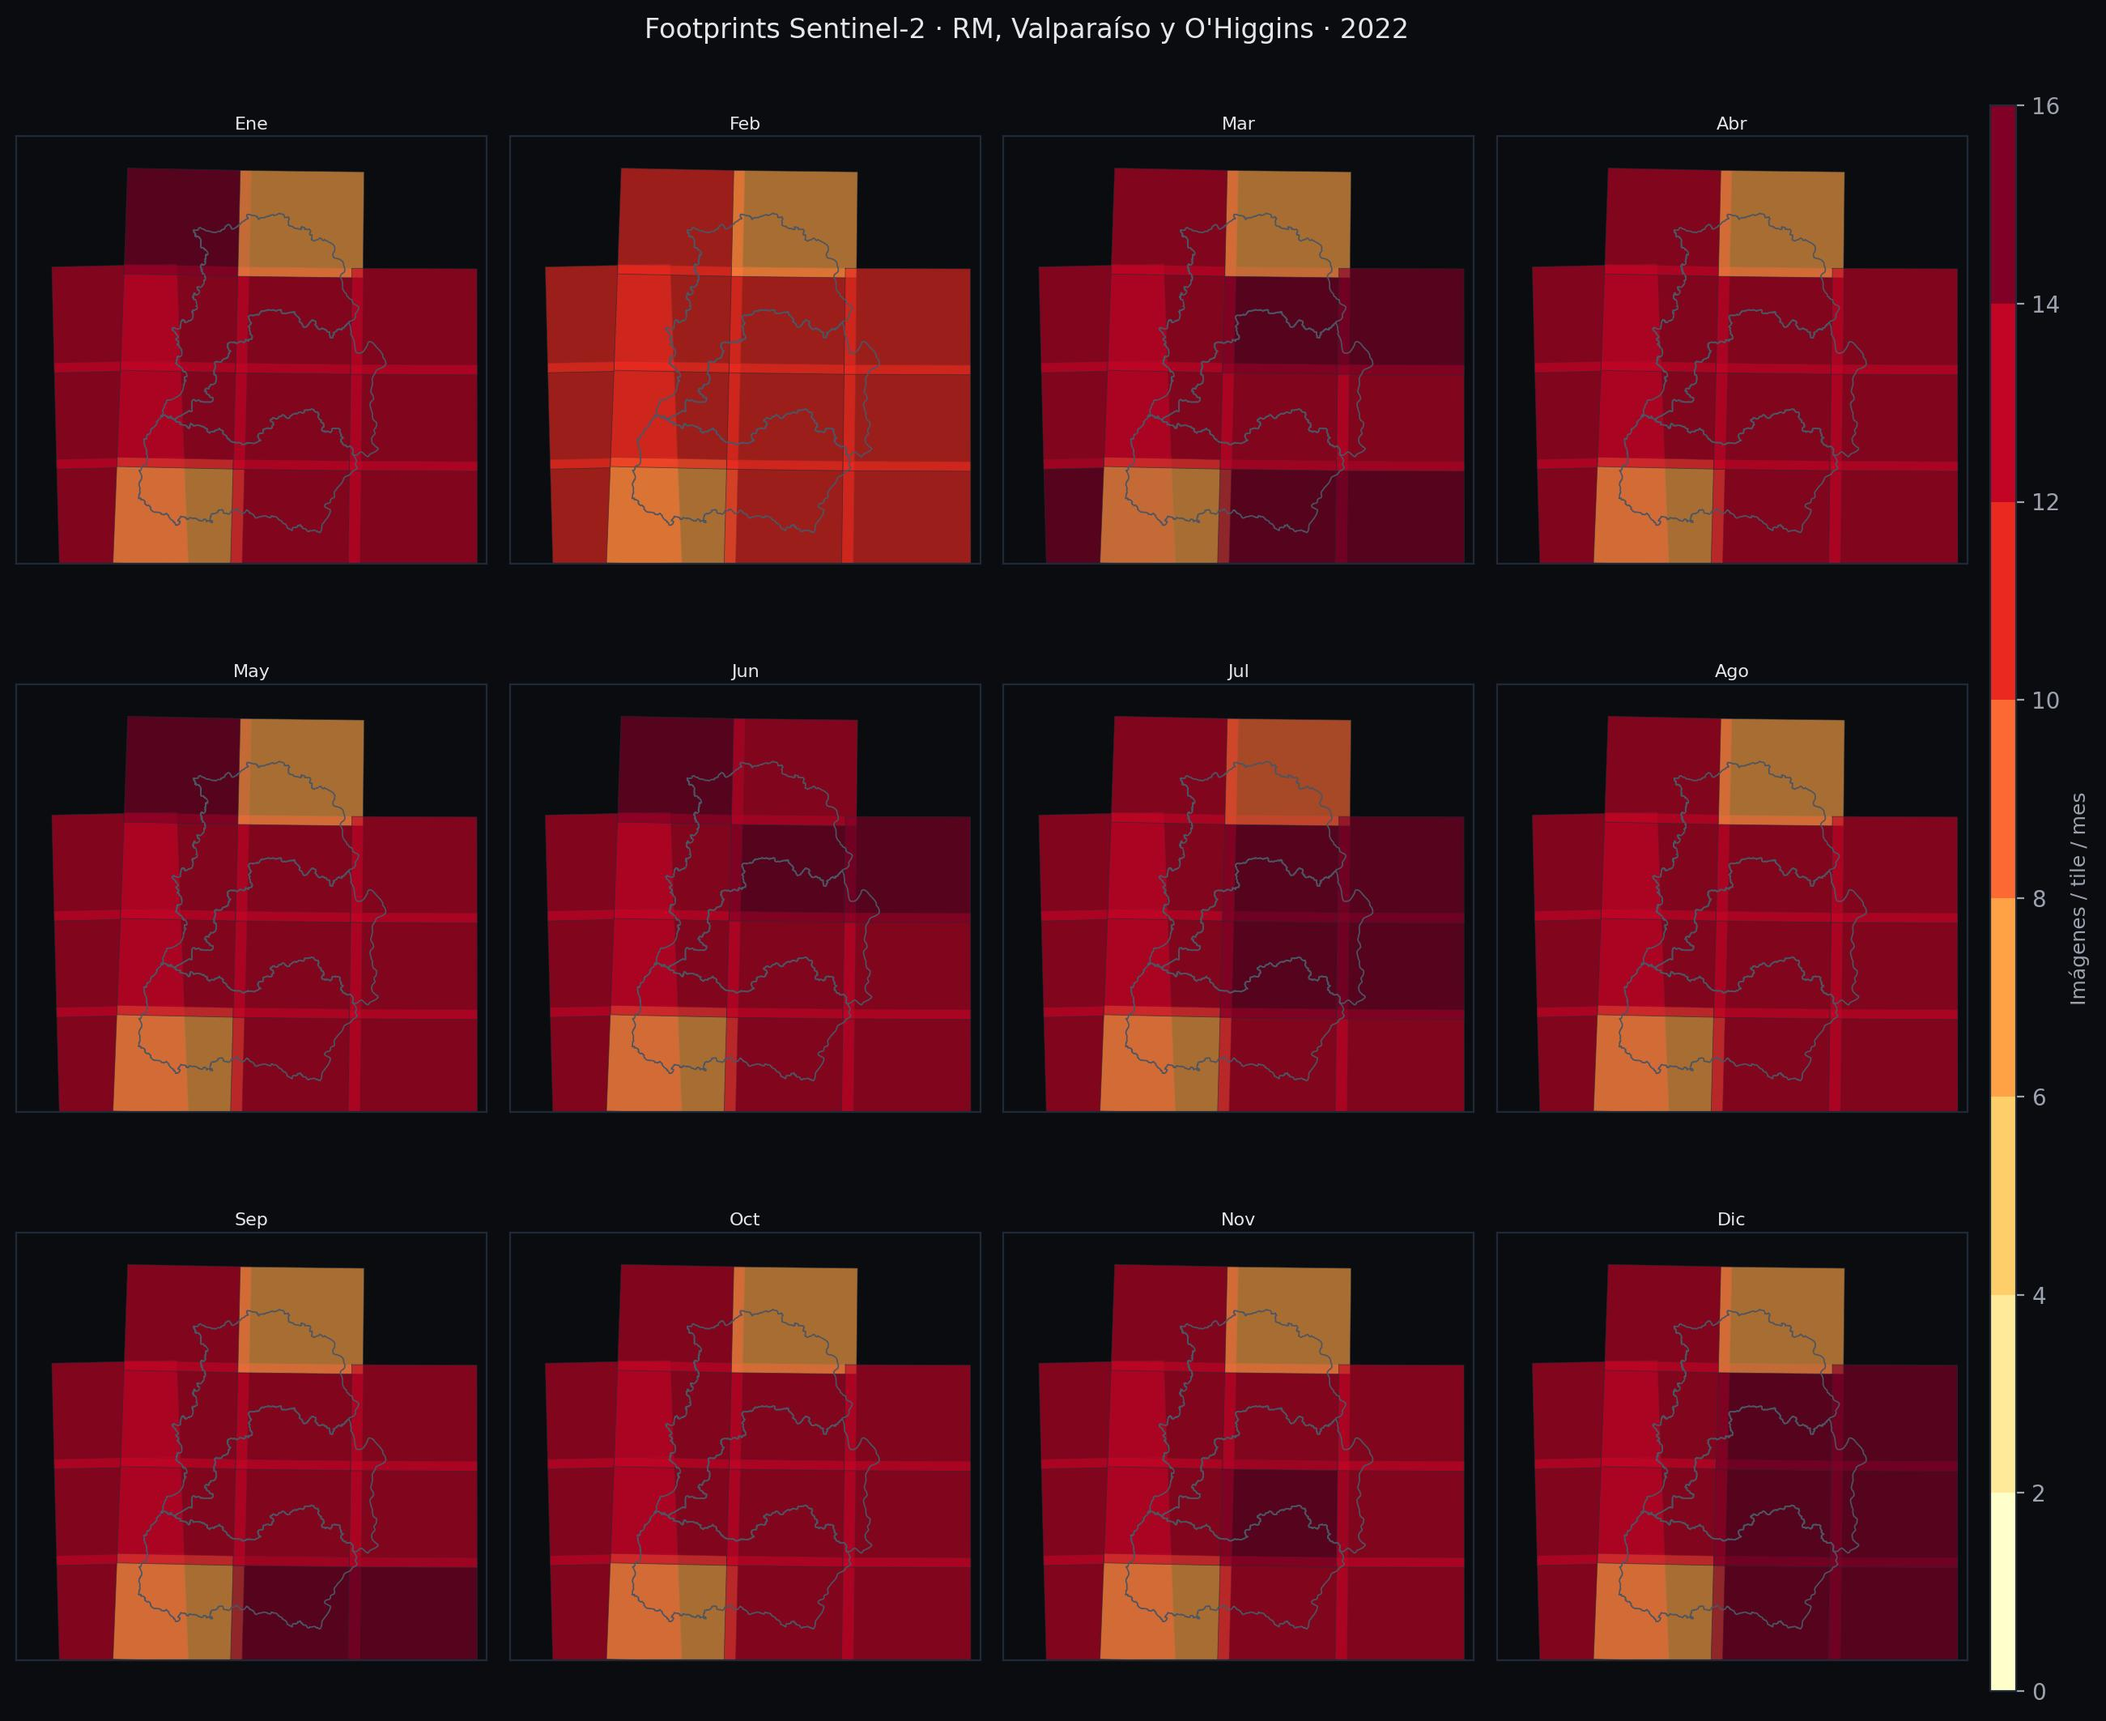
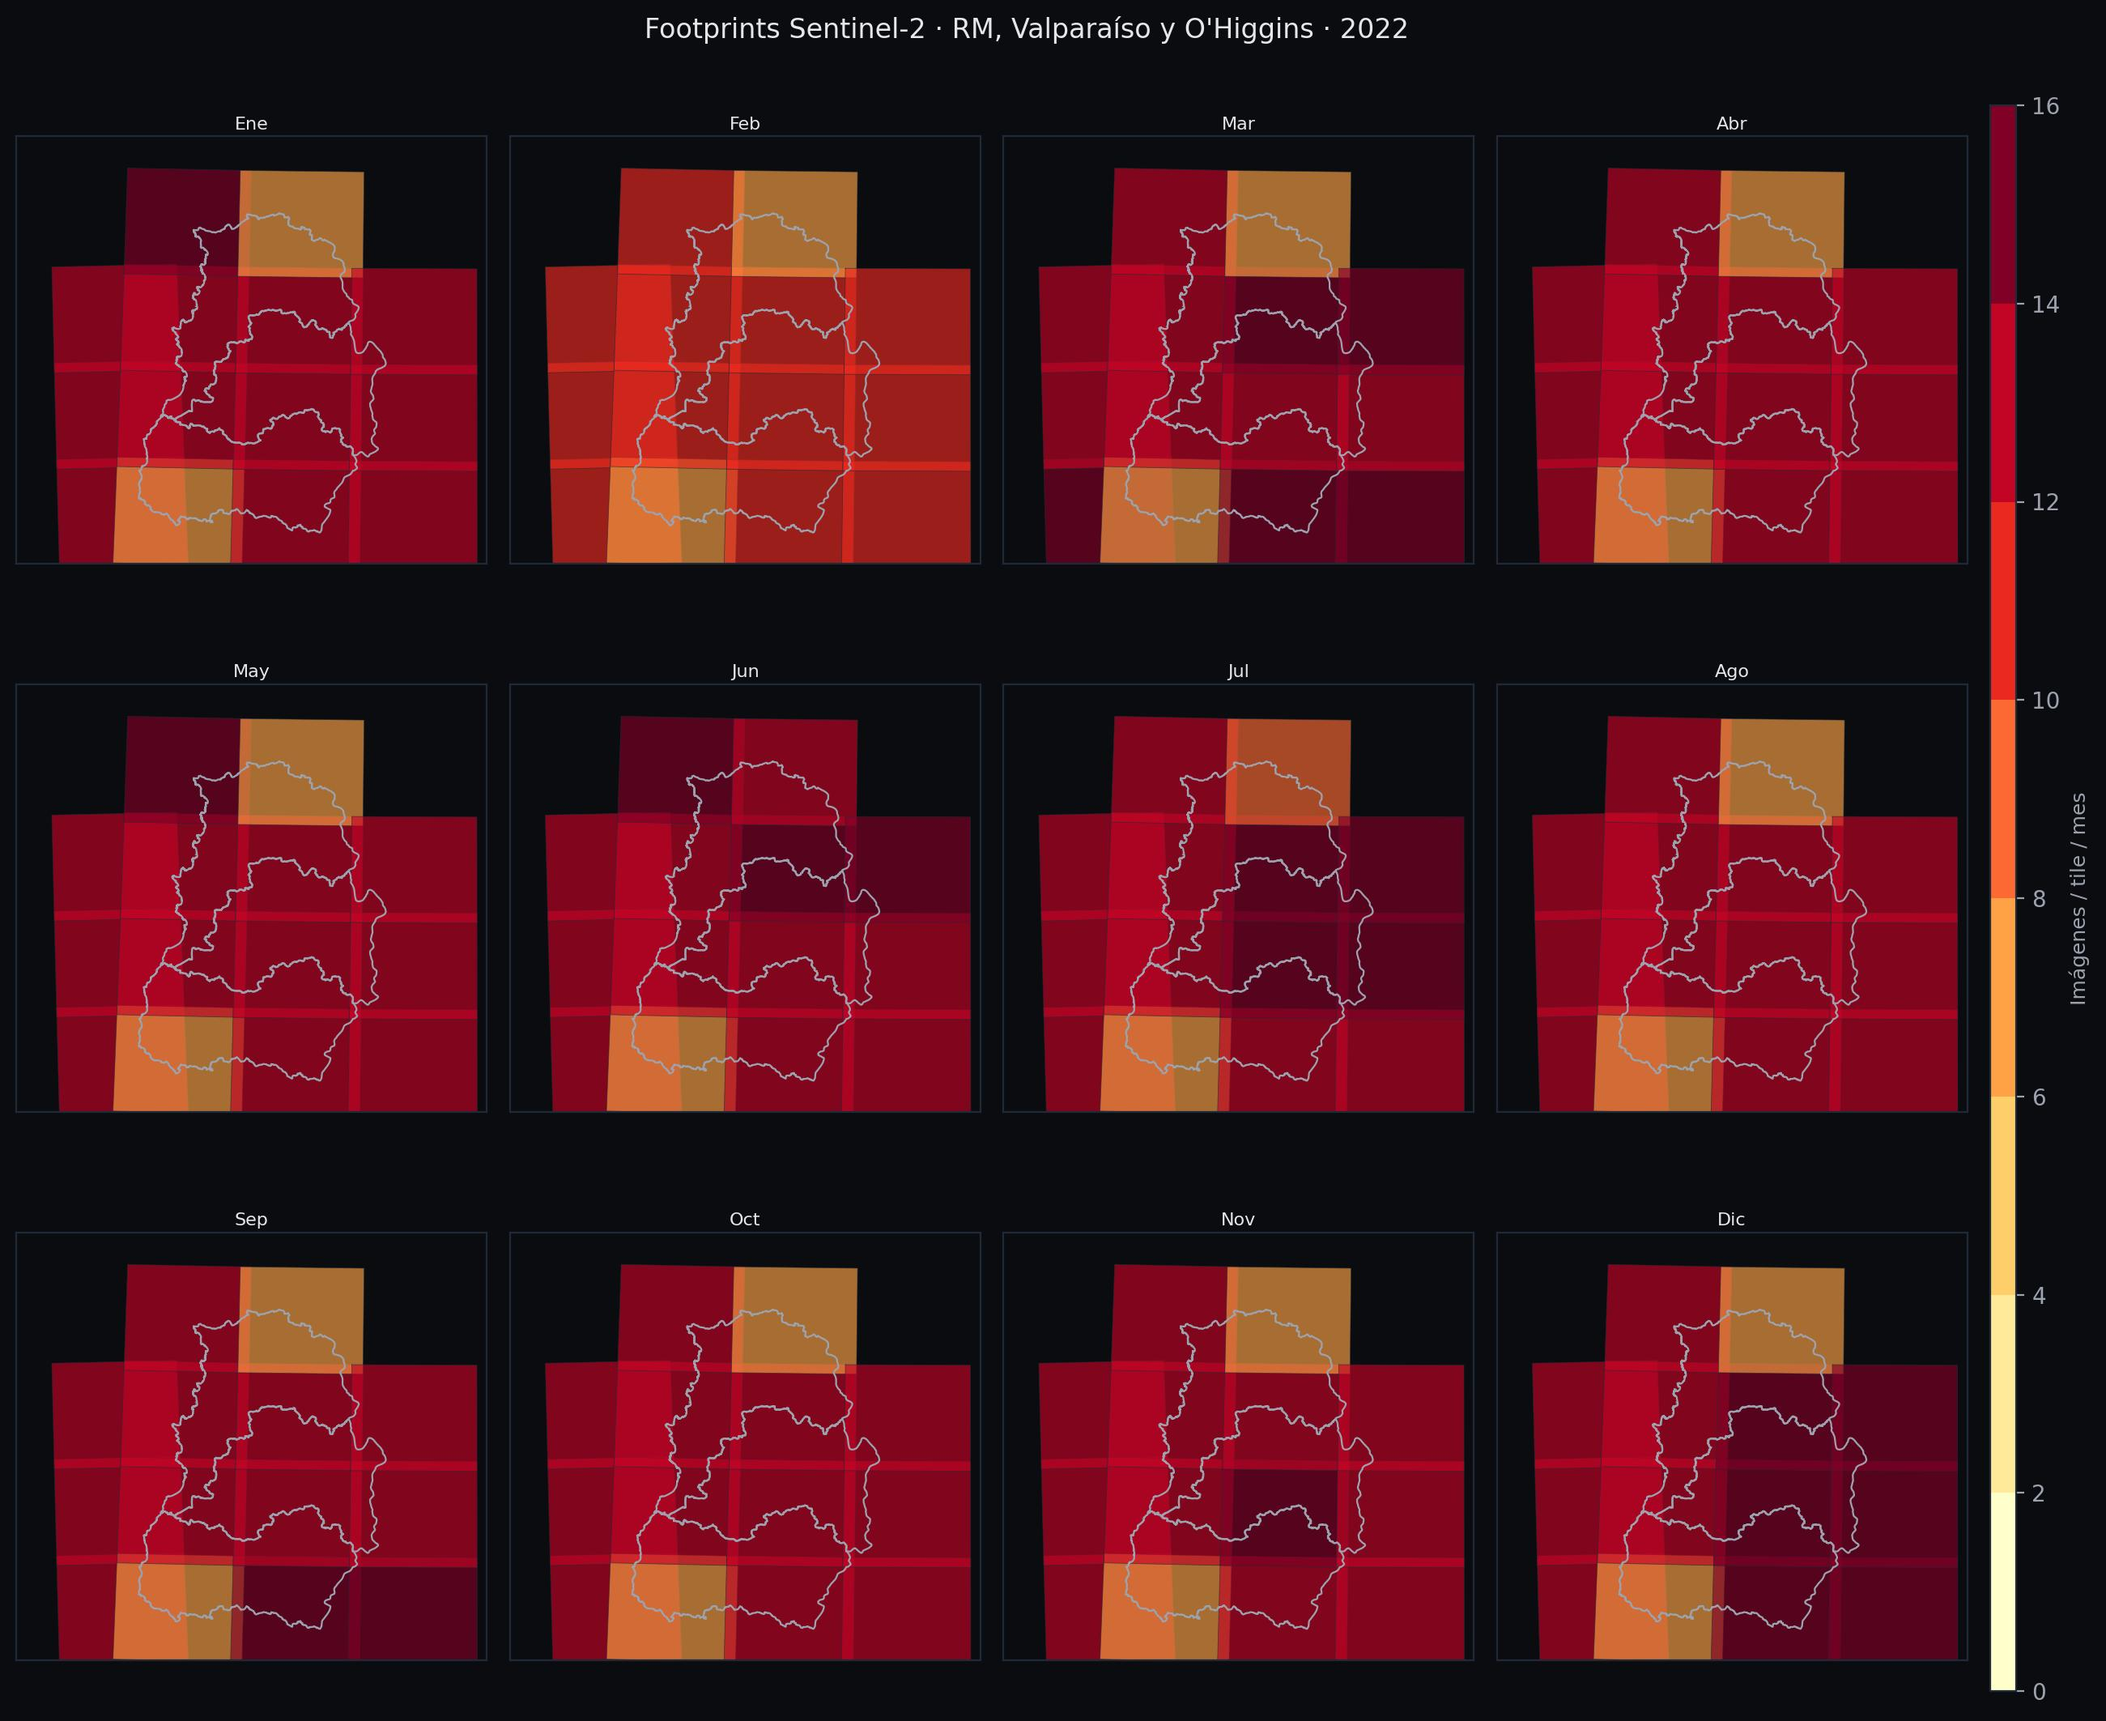
Add total coverage figure and improve region boundary contrast
- New teselado_total.jpg: sum of all 48 months per tile (max 609 img)
- Better region boundary contrast: #9ca3af at 0.8px width
- Portfolio: total figure as thumbnail/first image, updated captions

diff --git a/index.html b/index.html
@@ -1241,16 +1241,17 @@
     },
     {
       label:   'Cobertura Sentinel-2 — RM, Valparaíso y O\'Higgins',
-      thumb:   'assets/teselado_climatologia.jpg',
+      thumb:   'assets/teselado_total.jpg',
       images:  [
+        'assets/teselado_total.jpg',
         'assets/teselado_climatologia.jpg',
         'assets/teselado_2021.jpg',
         'assets/teselado_2022.jpg',
         'assets/teselado_2023.jpg',
         'assets/teselado_2024.jpg',
       ],
-      caption: 'Climatología de cobertura Sentinel-2 (2021–2024) para las regiones de Valparaíso, Metropolitana y O\'Higgins. Conteo mensual de escenas disponibles por tile MGRS (~100 km), generado como parte del pipeline de descarga masiva desarrollado para LATLON SpA / FONDART.',
-      detail:  'Metadatos descargados directamente desde la API STAC de Copernicus Data Space Ecosystem (~17 600 imágenes, 4 años, sin usar Google Earth Engine). Cada polígono representa el footprint real de un tile MGRS (unión de todas las escenas del período). La climatología promedia los 4 años por mes calendario; las figuras anuales muestran la variabilidad interanual.',
+      caption: 'Cobertura Sentinel-2 (2021–2024) para las regiones de Valparaíso, Metropolitana y O\'Higgins. ~17 700 imágenes descargadas desde la API STAC de Copernicus sin usar Google Earth Engine.',
+      detail:  'Cada polígono representa el footprint real de un tile MGRS (~100×100 km), obtenido como unión de todas las escenas del período. La figura principal muestra el total acumulado por tile (hasta 609 imágenes en 48 meses); la climatología agrega los 4 años por mes calendario; las figuras anuales muestran variabilidad interanual. Las zonas de solapamiento entre tiles adyacentes se acumulan visualmente por transparencia.',
     },
   ];
 
